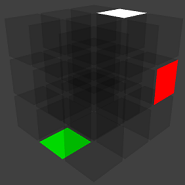
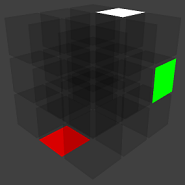
Fix image mistake

diff --git a/rubiks_cube/old_pochmann_patterns/index.html b/rubiks_cube/old_pochmann_patterns/index.html
@@ -77,7 +77,7 @@
 <div class="pattern">
   <p>変形Y-perm</p>
   <div class="type">
-    <div class="lc"><img src="/rubiks_cube/img/op/transformed-y-perm.png"></div><div class="rc"><p class="steps" data-visibles="ulb3,rdf4,ul0,ub1">RU'R'U'RUR'F'RUR'U'R'FR</p>
+    <div class="lc"><img src="/rubiks_cube/img/op/transformed-y-perm.png"></div><div class="rc"><p class="steps" data-visibles="rdf3,ulb4,ul0,ub1">RU'R'U'RUR'F'RUR'U'R'FR</p>
       <p class="explain">PLL(n15/Y-perm)の手順からFとF'のセットアップ、逆セットアップ手順をなくした手順になっている。</p>
     </div>
   </div>
